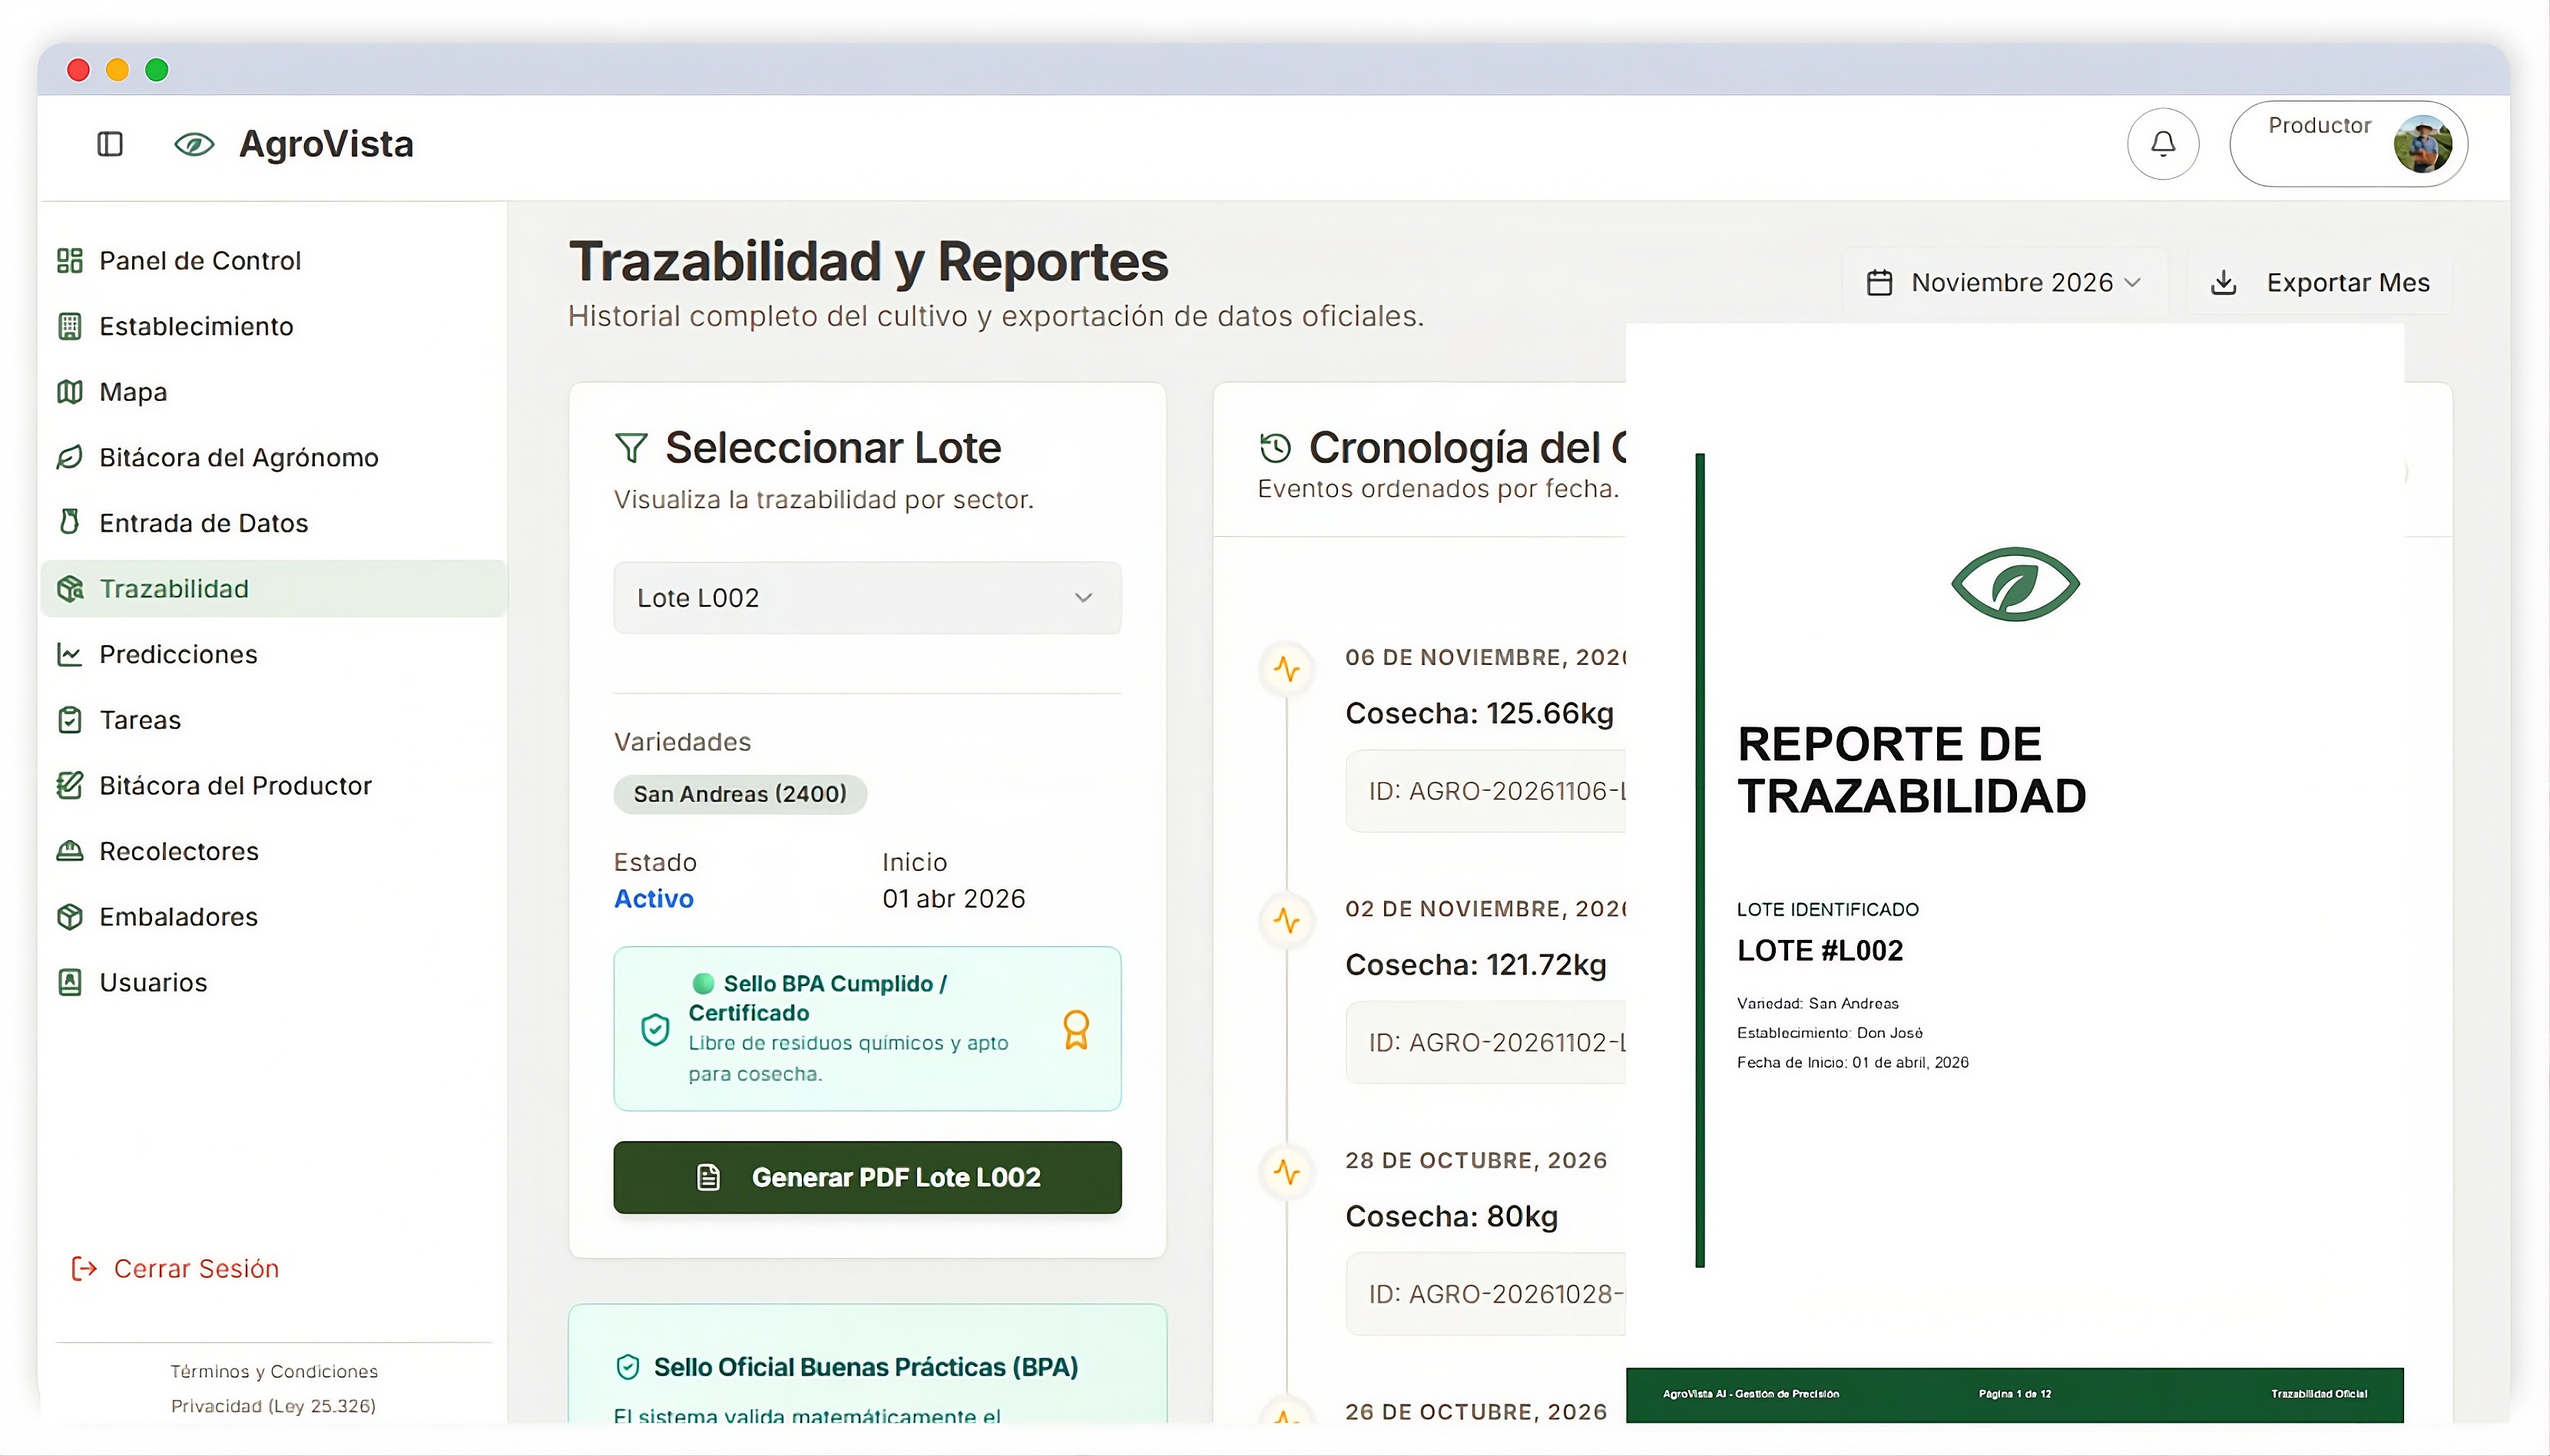
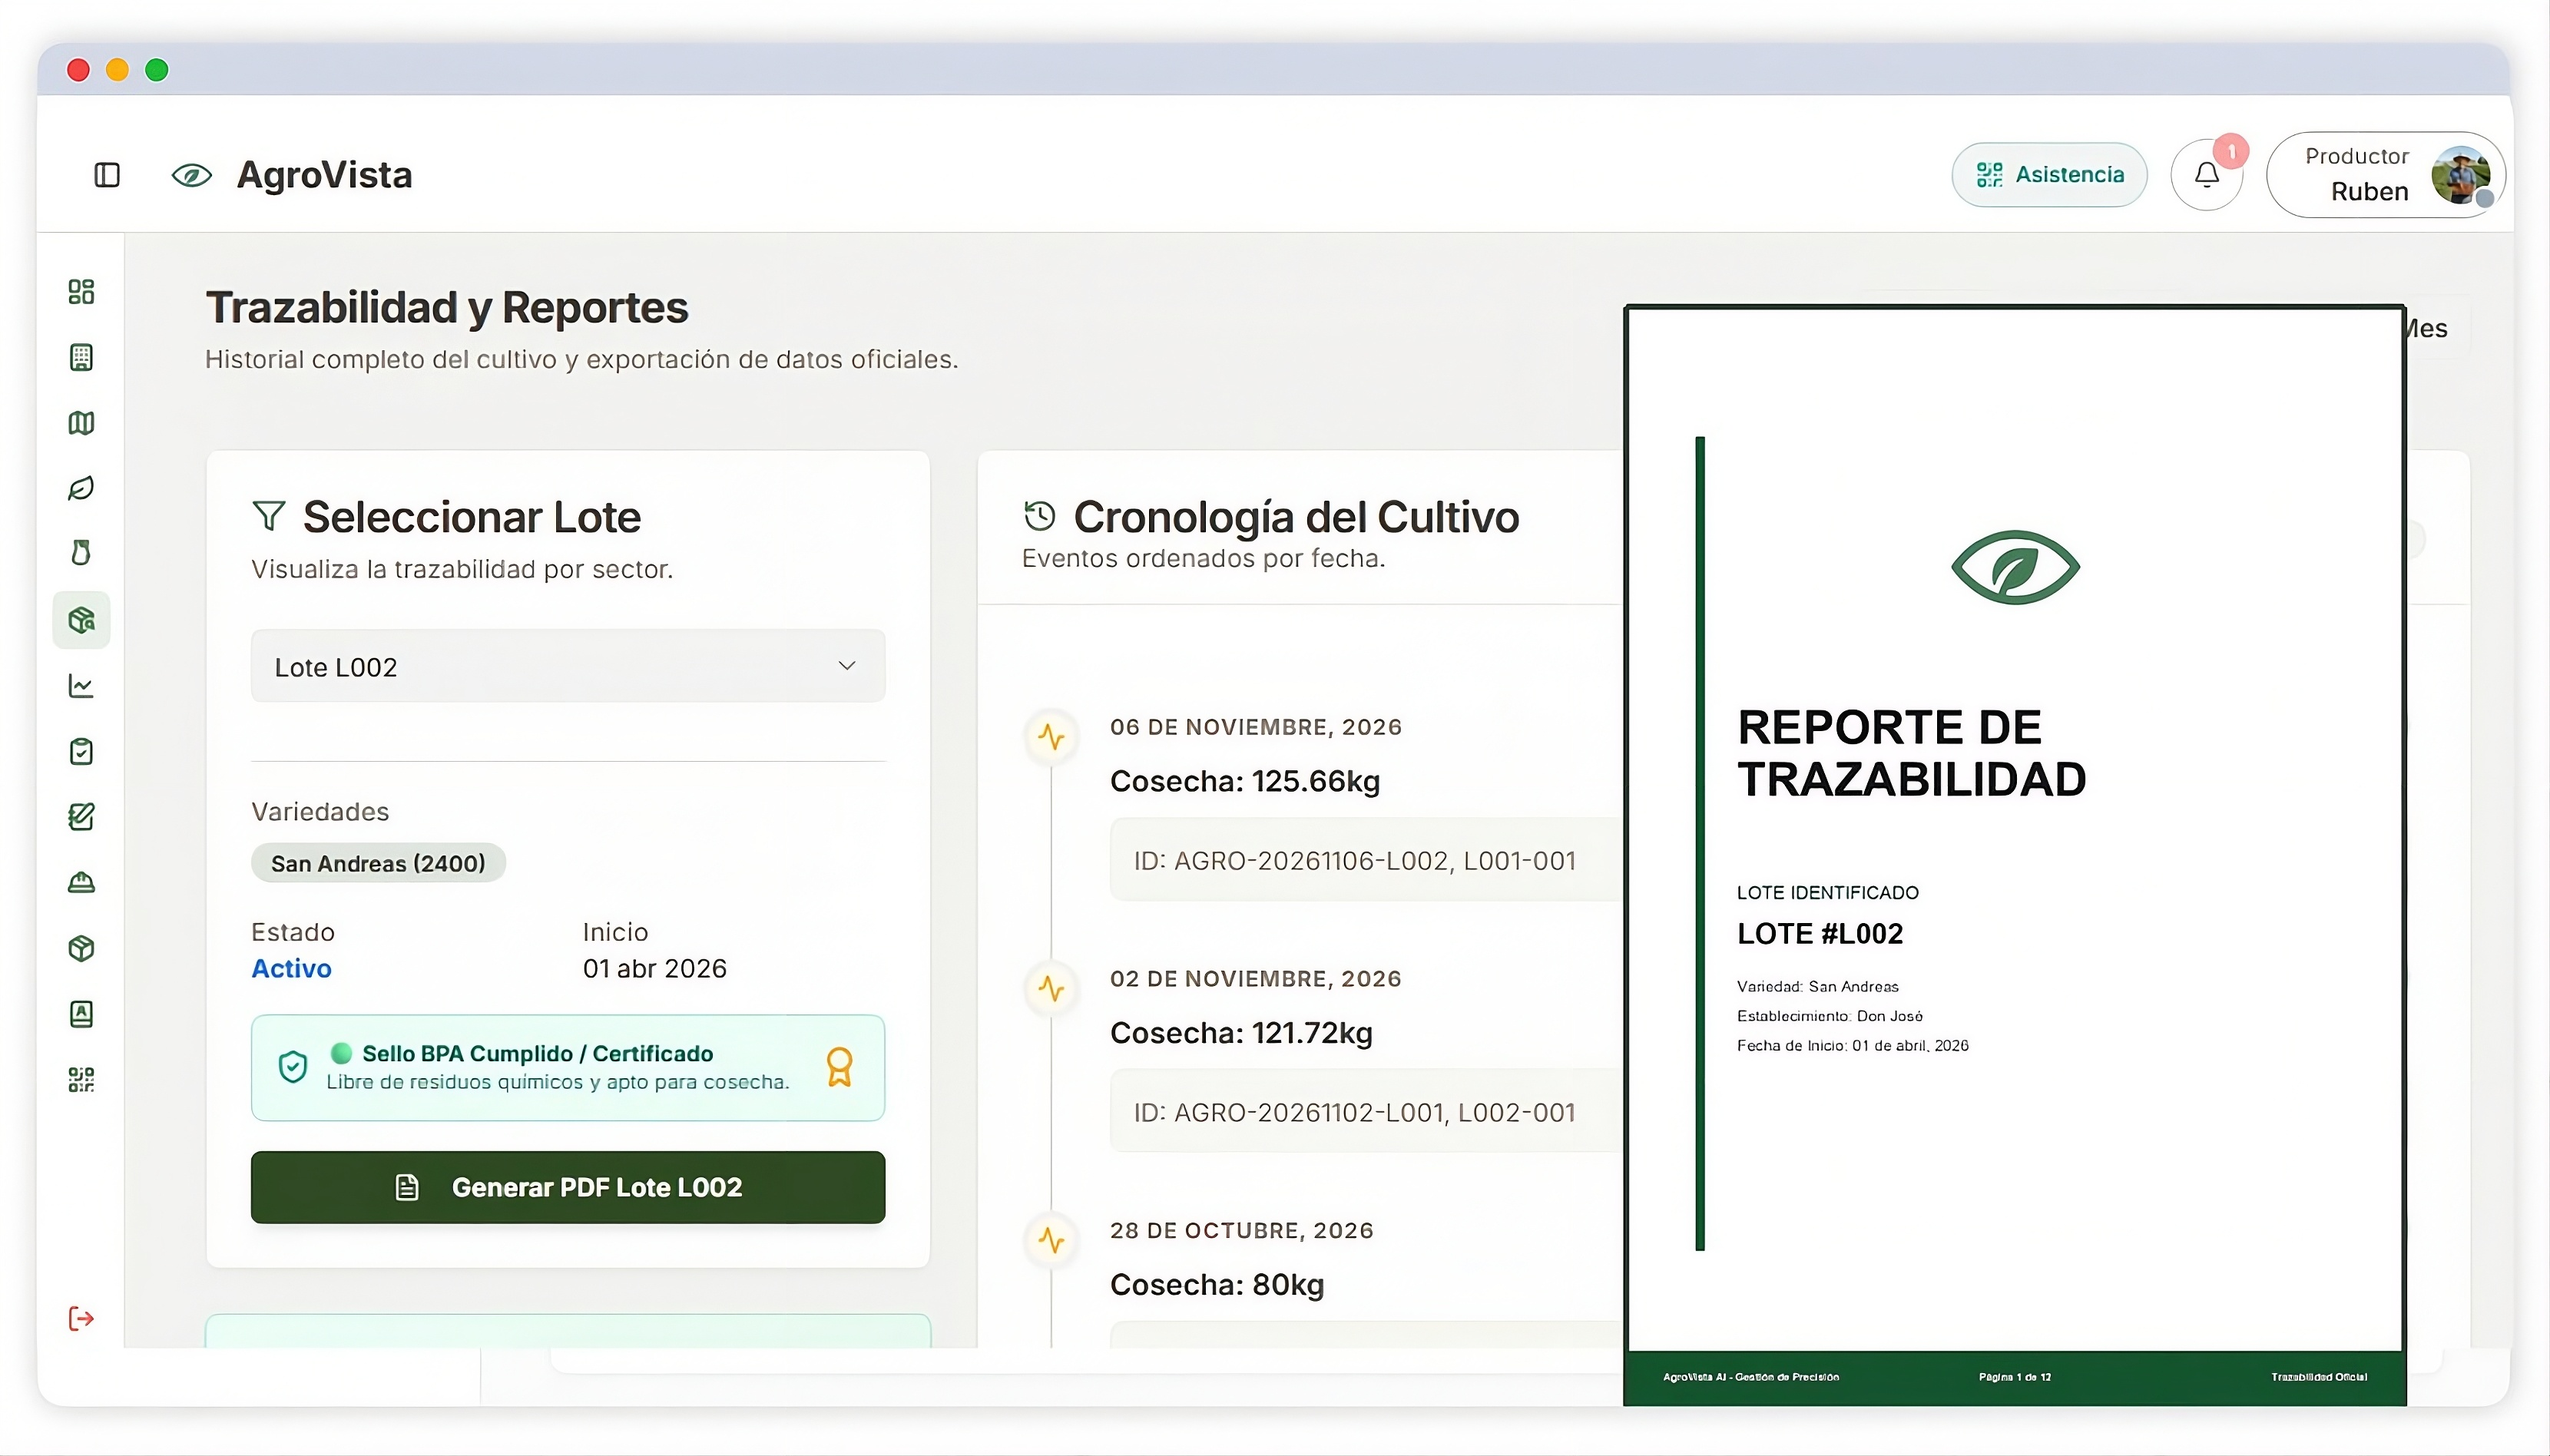
feat(landing): update desktop feature mockups and update paths in home page

diff --git a/src/app/page.tsx b/src/app/page.tsx
@@ -69,7 +69,7 @@ export default function Home() {
               muted
               playsInline
               preload="metadata"
-              poster="/dashboard_mockup_v2.jpeg"
+              poster="/dashboard_mockup.jpeg"
               className="object-cover w-full h-full opacity-30"
             >
               <source src="/hero_background.mp4" type="video/mp4" />
@@ -116,9 +116,9 @@ export default function Home() {
                 <div className="flex flex-col items-start">
                   <FeatureMockupDialog
                     title="Panel de Control"
-                    previewSrc="/dashboard_mockup_v2.jpeg?v=4"
-                    mobileSrc="/dashboard_mobile.jpeg?v=4"
-                    desktopSrc="/dashboard_mockup_v2.jpeg?v=4"
+                    previewSrc="/dashboard_mockup.jpeg?v=5"
+                    mobileSrc="/dashboard_mobile.jpeg?v=5"
+                    desktopSrc="/dashboard_mockup.jpeg?v=5"
                     altText="Panel de control de cosechas y costos de frutilla en AgroVista"
                   />
                   <dt className="flex items-center gap-x-3 text-xl font-semibold leading-7 text-gray-900 dark:text-green-50">
@@ -134,9 +134,9 @@ export default function Home() {
                 <div className="flex flex-col items-start">
                   <FeatureMockupDialog
                     title="Mapa Interactivo de Lotes"
-                    previewSrc="/map_mockup_v2.jpeg?v=4"
-                    mobileSrc="/map_mobile.jpeg?v=4"
-                    desktopSrc="/map_mockup_v2.jpeg?v=4"
+                    previewSrc="/map_mockup.jpeg?v=5"
+                    mobileSrc="/map_mobile.jpeg?v=5"
+                    desktopSrc="/map_mockup.jpeg?v=5"
                     altText="Mapa satelital de lotes de frutilla con alertas sanitarias"
                   />
                   <dt className="flex items-center gap-x-3 text-xl font-semibold leading-7 text-gray-900 dark:text-green-50">
@@ -152,9 +152,9 @@ export default function Home() {
                 <div className="flex flex-col items-start">
                   <FeatureMockupDialog
                     title="Bitácora del Agrónomo"
-                    previewSrc="/bitacora-agronomo_v2.jpeg?v=4"
-                    mobileSrc="/bitacora-agronomo_mobile.jpeg?v=4"
-                    desktopSrc="/bitacora-agronomo_v2.jpeg?v=4"
+                    previewSrc="/bitacora-agronomo_mockup.jpeg?v=5"
+                    mobileSrc="/bitacora-agronomo_mobile.jpeg?v=5"
+                    desktopSrc="/bitacora-agronomo_mockup.jpeg?v=5"
                     altText="Bitácora del agrónomo con recetas fitosanitarias y control de carencia"
                   />
                   <dt className="flex items-center gap-x-3 text-xl font-semibold leading-7 text-gray-900 dark:text-green-50">
@@ -170,9 +170,9 @@ export default function Home() {
                 <div className="flex flex-col items-start">
                   <FeatureMockupDialog
                     title="Trazabilidad Agrícola"
-                    previewSrc="/trazabilidad_mockup.jpeg?v=4"
-                    mobileSrc="/trazabilidad_mobile.jpeg?v=4"
-                    desktopSrc="/trazabilidad_mockup.jpeg?v=4"
+                    previewSrc="/trazabilidad_mockup.jpeg?v=5"
+                    mobileSrc="/trazabilidad_mobile.jpeg?v=5"
+                    desktopSrc="/trazabilidad_mockup.jpeg?v=5"
                     altText="Registro de cosecha de frutilla y reporte de trazabilidad oficial"
                   />
                   <dt className="flex items-center gap-x-3 text-xl font-semibold leading-7 text-gray-900 dark:text-green-50">
@@ -188,9 +188,9 @@ export default function Home() {
                 <div className="flex flex-col items-start">
                   <FeatureMockupDialog
                     title="Predicciones e Inteligencia"
-                    previewSrc="/predicciones_mockup_v2.jpeg?v=4"
-                    mobileSrc="/predicciones_mobile.jpeg?v=4"
-                    desktopSrc="/predicciones_mockup_v2.jpeg?v=4"
+                    previewSrc="/predicciones_mockup.jpeg?v=5"
+                    mobileSrc="/predicciones_mobile.jpeg?v=5"
+                    desktopSrc="/predicciones_mockup.jpeg?v=5"
                     altText="Pronóstico agroclimático y alertas de heladas para frutilla"
                   />
                   <dt className="flex items-center gap-x-3 text-xl font-semibold leading-7 text-gray-900 dark:text-green-50">
@@ -206,9 +206,9 @@ export default function Home() {
                 <div className="flex flex-col items-start">
                   <FeatureMockupDialog
                     title="Bitácora del Productor"
-                    previewSrc="/bitacora_productor_mockup_v2.jpeg?v=4"
-                    mobileSrc="/bitacora-productor_mobile.jpeg?v=4"
-                    desktopSrc="/bitacora_productor_mockup_v2.jpeg?v=4"
+                    previewSrc="/bitacora-productor_mockup.jpeg?v=5"
+                    mobileSrc="/bitacora-productor_mobile.jpeg?v=5"
+                    desktopSrc="/bitacora-productor_mockup.jpeg?v=5"
                     altText="Costos, ingresos y costo por kilo de frutilla en AgroVista"
                   />
                   <dt className="flex items-center gap-x-3 text-xl font-semibold leading-7 text-gray-900 dark:text-green-50">
@@ -248,9 +248,9 @@ export default function Home() {
                 <div className="flex flex-col items-start">
                   <FeatureMockupDialog
                     title="Gestión de Recolectores y Credenciales QR"
-                    previewSrc="/recolectores_mockup.jpeg?v=4"
-                    mobileSrc="/recolectores_mobile.jpeg?v=4"
-                    desktopSrc="/recolectores_mockup.jpeg?v=4"
+                    previewSrc="/recolectores_mockup.jpeg?v=5"
+                    mobileSrc="/recolectores_mobile.jpeg?v=5"
+                    desktopSrc="/recolectores_mockup.jpeg?v=5"
                     altText="Gestión de cuadrillas de recolectores con credenciales QR en AgroVista"
                   />
                   <dt className="flex items-center gap-x-3 text-xl font-semibold leading-7 text-gray-900 dark:text-green-50">
@@ -268,9 +268,9 @@ export default function Home() {
                 <div className="flex flex-col items-start">
                   <FeatureMockupDialog
                     title="Gestión de Embaladores y Control de Empaque"
-                    previewSrc="/embaladores_mockup.jpeg?v=4"
-                    mobileSrc="/embaladores_mobile.jpeg?v=4"
-                    desktopSrc="/embaladores_mockup.jpeg?v=4"
+                    previewSrc="/embaladores_mockup.jpeg?v=5"
+                    mobileSrc="/embaladores_mobile.jpeg?v=5"
+                    desktopSrc="/embaladores_mockup.jpeg?v=5"
                     altText="Gestión de embaladores y credenciales QR de empaque en AgroVista"
                   />
                   <dt className="flex items-center gap-x-3 text-xl font-semibold leading-7 text-gray-900 dark:text-green-50">
@@ -288,9 +288,9 @@ export default function Home() {
                 <div className="flex flex-col items-start">
                   <FeatureMockupDialog
                     title="Control de Asistencia y Presentismo QR"
-                    previewSrc="/asistencia_mobile.jpeg?v=4"
-                    mobileSrc="/asistencia_mobile.jpeg?v=4"
-                    desktopSrc="/asistencia_mobile.jpeg?v=4"
+                    previewSrc="/asistencia_mockup.jpeg?v=5"
+                    mobileSrc="/asistencia_mobile.jpeg?v=5"
+                    desktopSrc="/asistencia_mockup.jpeg?v=5"
                     altText="Control de asistencia y presentismo con código QR en AgroVista"
                   />
                   <dt className="flex items-center gap-x-3 text-xl font-semibold leading-7 text-gray-900 dark:text-green-50">
@@ -308,9 +308,9 @@ export default function Home() {
                 <div className="flex flex-col items-start">
                   <FeatureMockupDialog
                     title="Ingeniero Agrónomo y Encargados de Campo"
-                    previewSrc="/equipo_ingeniero_encargado_mockup.jpeg?v=4"
-                    mobileSrc="/usuarios_mobile.jpeg?v=4"
-                    desktopSrc="/equipo_ingeniero_encargado_mockup.jpeg?v=4"
+                    previewSrc="/usuarios_mockup.jpeg?v=5"
+                    mobileSrc="/usuarios_mobile.jpeg?v=5"
+                    desktopSrc="/usuarios_mockup.jpeg?v=5"
                     altText="Roles de ingeniero agrónomo y encargado de campo en AgroVista"
                   />
                   <dt className="flex items-center gap-x-3 text-xl font-semibold leading-7 text-gray-900 dark:text-green-50">
